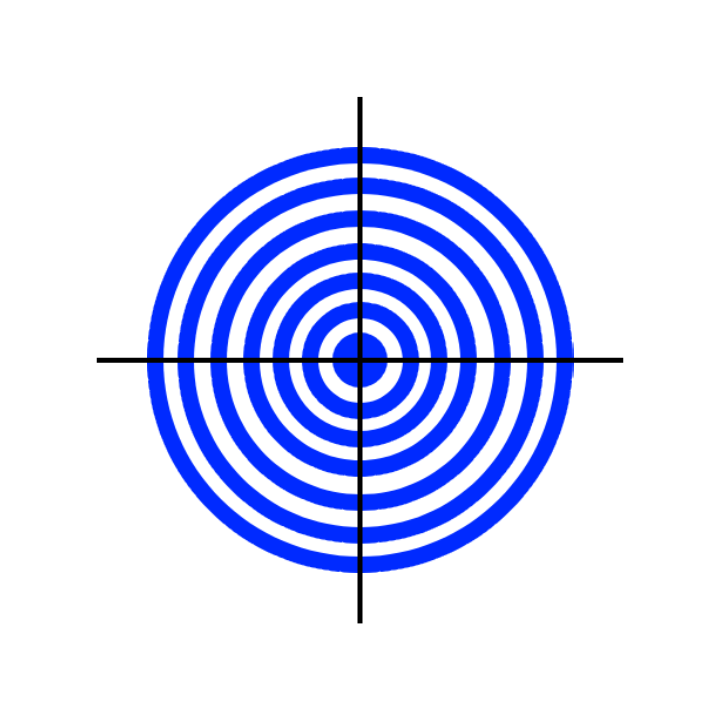
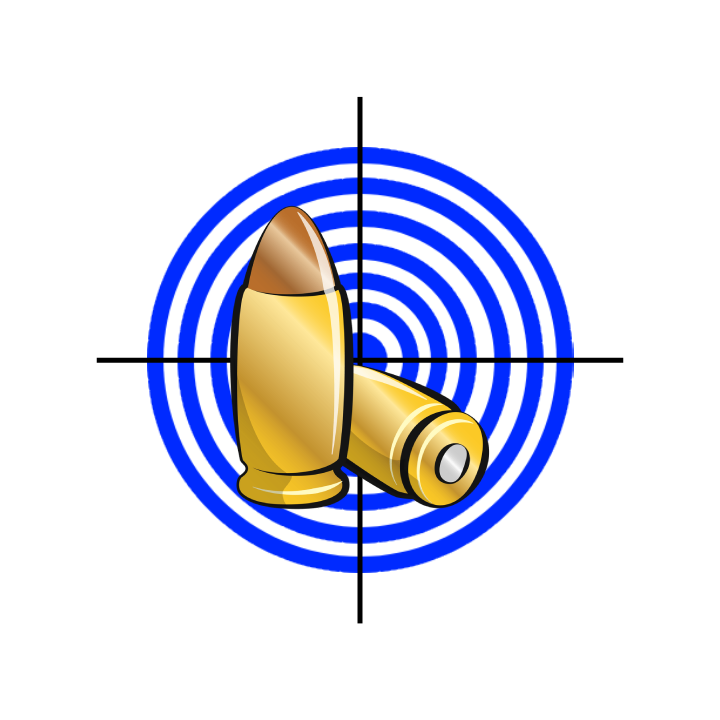
new aim 3

Changed region(s): [[0.3056, 0.275, 0.7028, 0.7333]]

diff --git a/week-2/gamegroup/index.html b/week-2/gamegroup/index.html
@@ -11,15 +11,15 @@
     <style>
         /* Prevent text selection */
         body {
-            user-select: none; /* Prevent text selection in modern browsers */
-            -webkit-user-select: none; /* Prevent text selection in Safari */
-            -moz-user-select: none; /* Prevent text selection in Firefox */
+            user-select: none;
+            -webkit-user-select: none;
+            -moz-user-select: none;
         }
 
         /* Prevent scrolling */
         html, body {
-            overflow: hidden; /* Prevent scrolling */
-            height: 100%; /* Ensure body takes full height */
+            overflow: hidden;
+            height: 100%;
         }
 
         /* Universal styles */
@@ -135,7 +135,7 @@
 
     <script>
         let clipSize = 6;
-        let totalAmmo = 18;
+        let totalAmmo = 20; // Updated ammo reserve
         let currentClip = clipSize;
         let remainingAmmo = totalAmmo - clipSize;
         let score = 0;
@@ -195,12 +195,12 @@
             const target = document.createElement('img');
             target.src = 'images/aim.png'; // Regular target image
             target.style.position = 'absolute';
-            target.style.width = '200px'; // Increased size
-            target.style.height = '200px'; // Increased size
+            target.style.width = '300px'; // Increased size
+            target.style.height = '300px'; // Increased size
             target.style.zIndex = '1';
 
-            const randomX = Math.random() * (window.innerWidth - 200);
-            const randomY = Math.random() * (window.innerHeight - 200);
+            const randomX = Math.random() * (window.innerWidth - 300);
+            const randomY = Math.random() * (window.innerHeight - 300);
 
             target.style.left = `${randomX}px`;
             target.style.top = `${randomY}px`;
@@ -212,8 +212,11 @@
                     updateScoreDisplay();
                 }
                 document.body.removeChild(target);
-                if (Math.random() < 0.15) { // 15% chance to spawn a bonus target
+                if (Math.random() < 0.15) { // 15% chance to spawn a bonus target (aim2)
                     createBonusTarget(randomX, randomY);
+                }
+                if (Math.random() < 0.05) { // 5% chance to spawn aim3
+                    createSpecialTarget(randomX, randomY);
                 }
             };
 
@@ -228,15 +231,15 @@
             const bonusTarget = document.createElement('img');
             bonusTarget.src = 'images/aim2.png'; // Bonus target image
             bonusTarget.style.position = 'absolute';
-            bonusTarget.style.width = '200px'; // Increased size
-            bonusTarget.style.height = '200px'; // Increased size
+            bonusTarget.style.width = '300px'; // Increased size
+            bonusTarget.style.height = '300px'; // Increased size
             bonusTarget.style.zIndex = '1';
             bonusTarget.style.left = `${x}px`;
             bonusTarget.style.top = `${y}px`;
             document.body.appendChild(bonusTarget);
 
             bonusTarget.onclick = () => {
-                if (currentClip > 0) { // Only score if there is ammo
+                if (currentClip > 0) {
                     score += 100;
                     remainingAmmo += 6; // Bonus ammo
                     updateAmmoDisplay();
@@ -248,6 +251,34 @@
             setTimeout(() => {
                 if (document.body.contains(bonusTarget)) {
                     document.body.removeChild(bonusTarget);
+                }
+            }, 2000);
+        }
+
+        function createSpecialTarget(x, y) {
+            const specialTarget = document.createElement('img');
+            specialTarget.src = 'images/aim3.png'; // New special target image
+            specialTarget.style.position = 'absolute';
+            specialTarget.style.width = '300px'; // Increased size
+            specialTarget.style.height = '300px'; // Increased size
+            specialTarget.style.zIndex = '1';
+            specialTarget.style.left = `${x}px`;
+            specialTarget.style.top = `${y}px`;
+            document.body.appendChild(specialTarget);
+
+            specialTarget.onclick = () => {
+                if (currentClip > 0) {
+                    score += 150;
+                    gameTime += 10; // Increase time by 10 seconds
+                    updateScoreDisplay();
+                    updateTimerDisplay();
+                }
+                document.body.removeChild(specialTarget);
+            };
+
+            setTimeout(() => {
+                if (document.body.contains(specialTarget)) {
+                    document.body.removeChild(specialTarget);
                 }
             }, 2000);
         }
